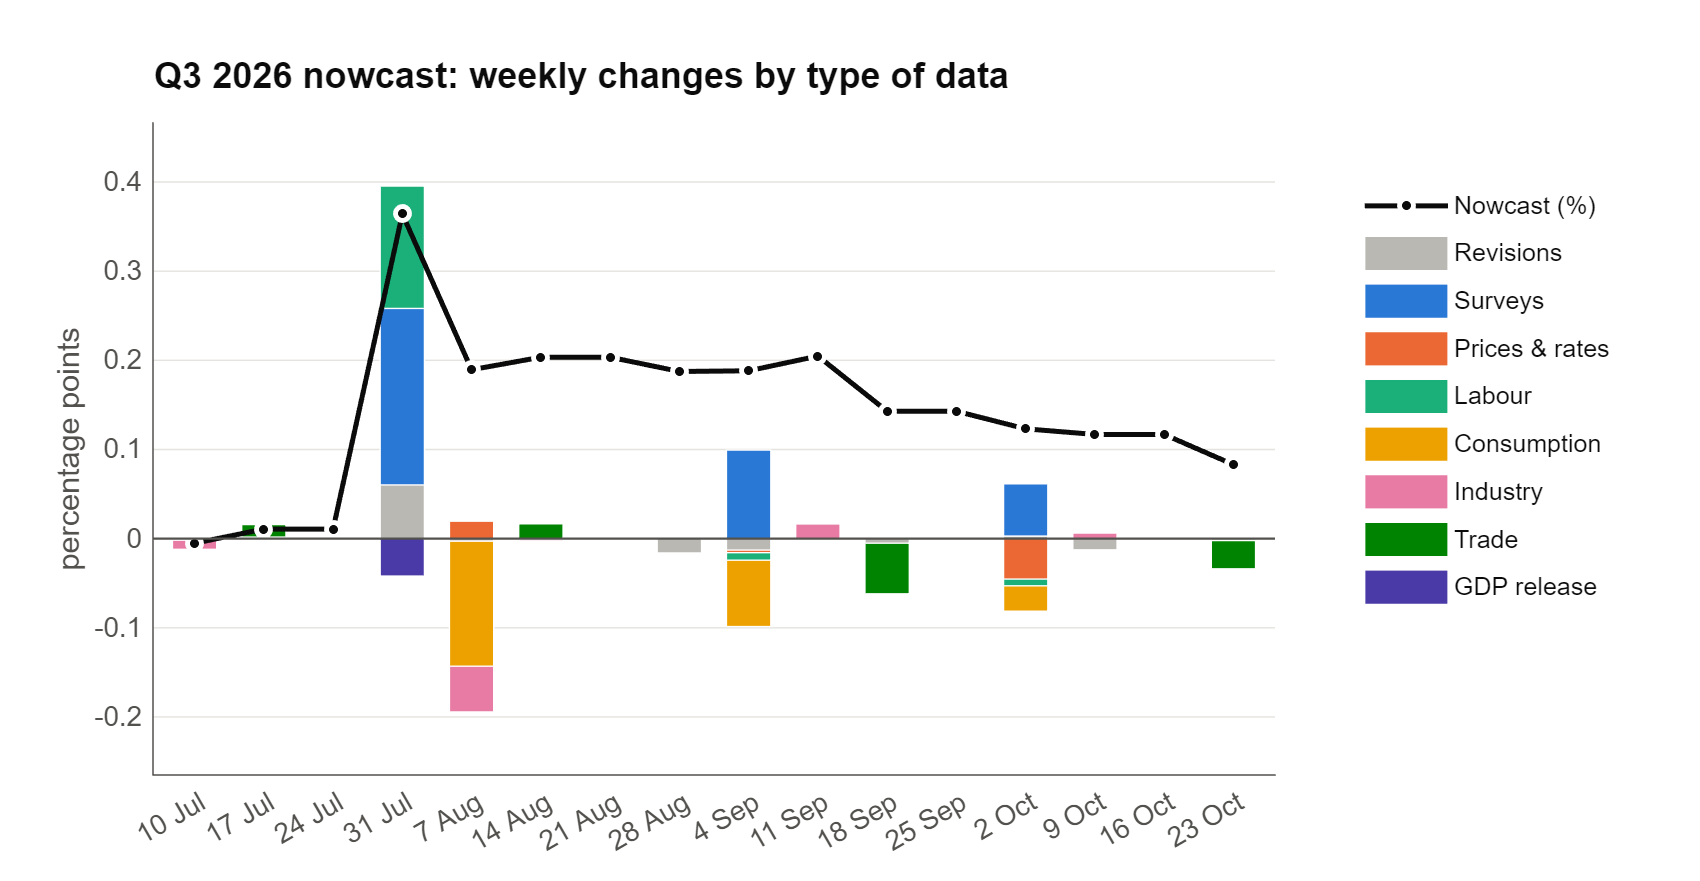
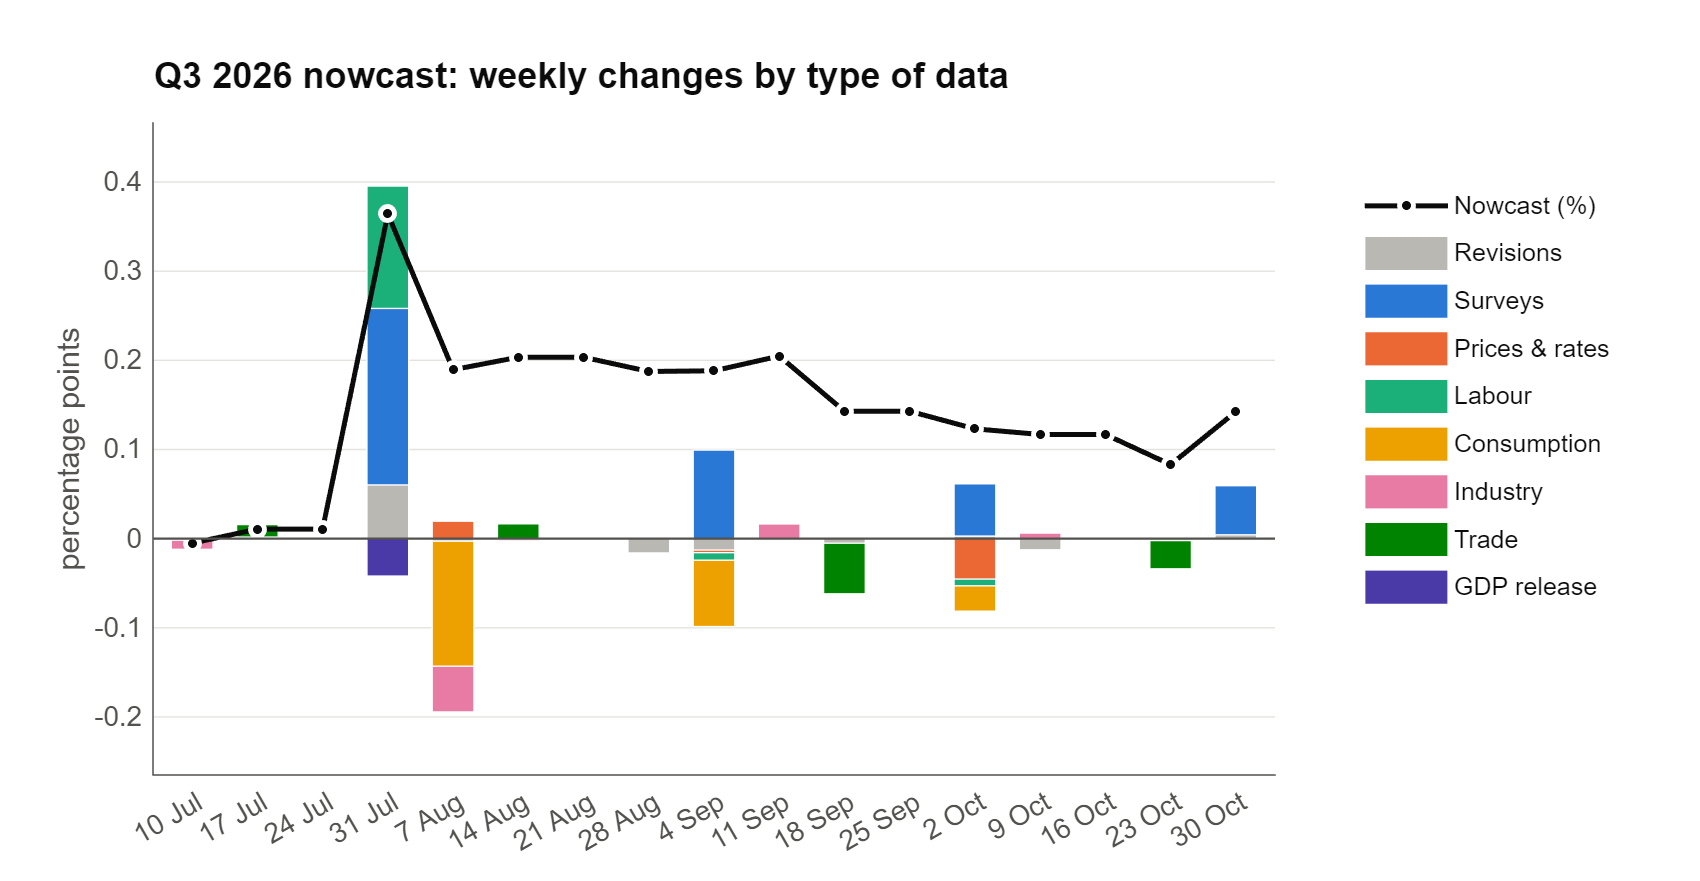
Update GDP nowcast

diff --git a/_pages/nowcast.md b/_pages/nowcast.md
@@ -5,10 +5,13 @@ permalink: /nowcast/
 author_profile: true
 ---
 
-**Latest estimate, 23 October 2026:** Italy's real GDP in **Q3 2026** grew by **0.08%** compared with the previous quarter.
-Likely range (80% probability): -0.30% to 0.48%. Compared with a year earlier: 0.88%.
-The estimate is down 0.03 percentage points from last week.
+**Latest estimate, 30 October 2026 at 08:12:** Italy's real GDP in **Q3 2026** grew by **0.15%** compared with the previous quarter.
+Likely range (80% probability): -0.25% to 0.53%. Compared with a year earlier: 0.94%.
+The estimate is up 0.06 percentage points from last week.
+This is our final estimate for Q3 2026, made with the data available before ISTAT's preliminary estimate, due today.
 {: .notice--primary style="font-size: 1.1em !important; line-height: 1.6;"}
+
+<!-- release-update -->
 
 *Updated every Friday. Next official figure: ISTAT preliminary estimate for Q3 2026, due 30 October 2026.*
 
@@ -27,7 +30,7 @@ Each bar shows how much the data published that week moved the nowcast, split by
 
 ## What changed this week
 
-The data published this week moved the estimate by -0.03 percentage points (trade -0.03).
+The data published this week moved the estimate by +0.06 percentage points (surveys +0.06).
 
 ![Contribution of this week's data releases to the change in the nowcast](web_news_week.png)
 
@@ -35,14 +38,13 @@ The data published this week moved the estimate by -0.03 percentage points (trad
 
 New data published since last week:
 
-- Exports (Aug 2026): -1.6% on previous month
-- Imports (Aug 2026): -1.7% on previous month
+- Consumer confidence (Sep 2026): -3.0 points
 
 ## GDP growth in 2026
 
-**Estimate for 2026 as a whole: 0.84%** (80% range 0.46% to 1.27%), with the data available on 23 October 2026.
+**Estimate for 2026 as a whole: 0.85%** (80% range 0.45% to 1.28%), with the data available on 30 October 2026.
 
-If GDP stayed at its Q2 2026 level for the rest of the year, growth in 2026 would be 0.78% (the carry-over, or *crescita acquisita*, also reported by ISTAT). The nowcast for Q3 2026 adds +0.05 points and the model's forecast for Q4 2026 +0.02.
+If GDP stayed at its Q2 2026 level for the rest of the year, growth in 2026 would be 0.78% (the carry-over, or *crescita acquisita*, also reported by ISTAT). The nowcast for Q3 2026 adds +0.08 points and the model's forecast for Q4 2026 -0.01.
 
 ![Italy GDP by quarter in 2025 and 2026, with the annual averages](web_annual.png)
 
@@ -92,6 +94,7 @@ Every quarter we compare our last estimate before the official release with ISTA
 
 | Estimate made on | Quarter-on-quarter | 80% range | Year-on-year |
 |---|---:|---:|---:|
+| 30 October 2026 | 0.15% | -0.25% to 0.53% | 0.94% |
 | 23 October 2026 | 0.08% | -0.30% to 0.48% | 0.88% |
 | 16 October 2026 | 0.11% | -0.26% to 0.51% | 0.91% |
 | 9 October 2026 | 0.11% | -0.26% to 0.51% | 0.91% |
@@ -119,11 +122,12 @@ Every quarter we compare our last estimate before the official release with ISTA
 
 | Week of | Indicator | Data for | Change on previous period |
 |---|---|---|---:|
+| 30 October 2026 | Consumer confidence | Sep 2026 | -3.0 points |
 | 23 October 2026 | Exports | Aug 2026 | -1.6% on previous month |
 | 23 October 2026 | Imports | Aug 2026 | -1.7% on previous month |
 | 9 October 2026 | Industrial production | Aug 2026 | -1.3% on previous month |
 | 9 October 2026 | Industrial production in Germany | Aug 2026 | +0.4% on previous month |
-| 2 October 2026 | Industrial confidence | Sep 2026 | +1.2 points |
+| 2 October 2026 | Industrial confidence | Sep 2026 | +1.1 points |
 | 2 October 2026 | Consumer prices (HICP) | Sep 2026 | +2.1% on previous month |
 | 2 October 2026 | 1-year Euribor interest rate | Sep 2026 | +0.29 percentage points |
 | 2 October 2026 | Retail sales (volume) | Aug 2026 | +0.1% on previous month |
@@ -135,8 +139,8 @@ Every quarter we compare our last estimate before the official release with ISTA
 | 18 September 2026 | Imports | Jul 2026 | -1.1% on previous month |
 | 11 September 2026 | Industrial production | Jul 2026 | +0.6% on previous month |
 | 11 September 2026 | Industrial production in Germany | Jul 2026 | -1.8% on previous month |
-| 4 September 2026 | Consumer confidence | Aug 2026 | -0.1 points |
-| 4 September 2026 | Industrial confidence | Aug 2026 | +0.8 points |
+| 4 September 2026 | Consumer confidence | Aug 2026 | +0.0 points |
+| 4 September 2026 | Industrial confidence | Aug 2026 | +0.9 points |
 | 4 September 2026 | 1-year Euribor interest rate | Aug 2026 | +0.10 percentage points |
 | 4 September 2026 | Retail sales (volume) | Jul 2026 | -0.4% on previous month |
 | 4 September 2026 | Unemployment rate | Jul 2026 | +0.00 percentage points |
@@ -158,6 +162,8 @@ Every quarter we compare our last estimate before the official release with ISTA
 
 | Week of | Indicator | Data for | Old value | New value |
 |---|---|---|---:|---:|
+| 30 October 2026 | Consumer confidence | Aug 2026 | -20.30 | -20.20 |
+| 30 October 2026 | Industrial confidence | Aug 2026 | -4.40 | -4.30 |
 | 23 October 2026 | Consumer prices (HICP) | Sep 2026 | 4.65 | 4.65 |
 | 23 October 2026 | Exports | Jul 2026 | 10.96 | 10.96 |
 | 23 October 2026 | Imports | Jul 2026 | 10.87 | 10.87 |
@@ -206,4 +212,4 @@ Every quarter we compare our last estimate before the official release with ISTA
 
 *IT Now is an independent research project by [Filippo Ferroni](/) (University of Bologna). It is not an official statistic and does not represent the views of any institution. It is not investment advice.*
 
-<small>Page generated automatically on 23 Oct 2026 12:02.</small>
+<small>Page generated automatically on 30 Oct 2026 08:12.</small>
